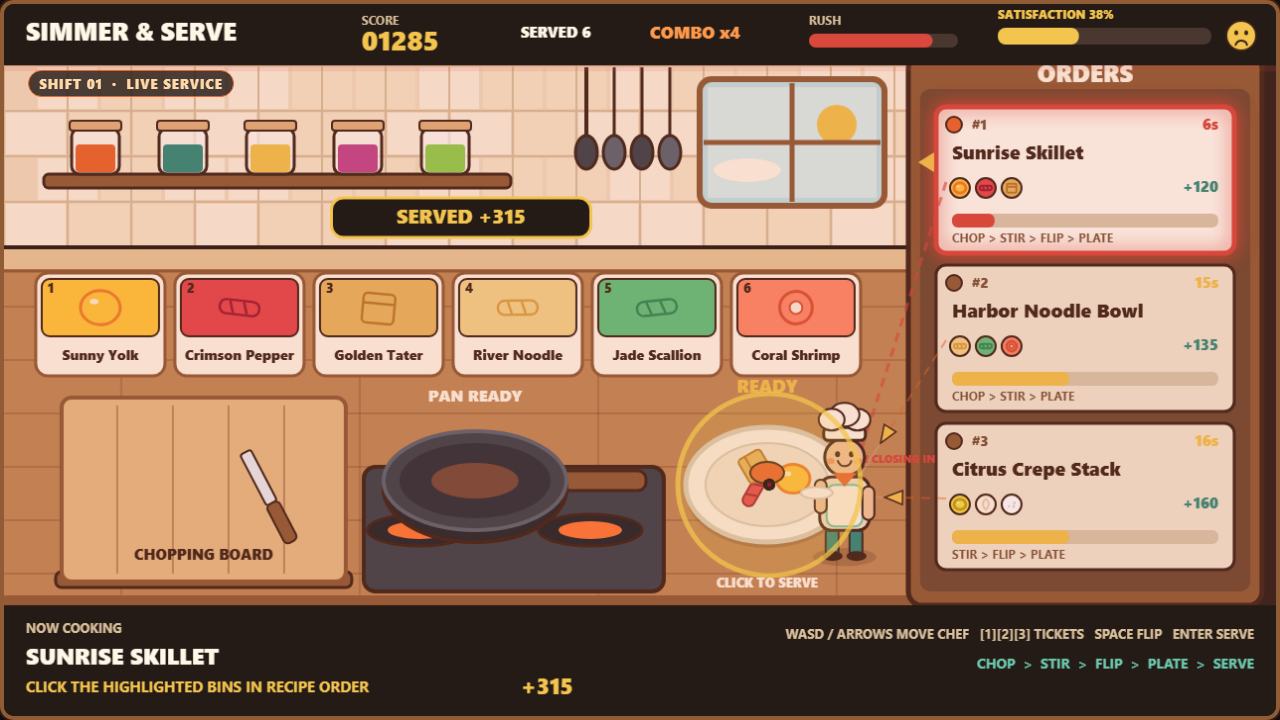
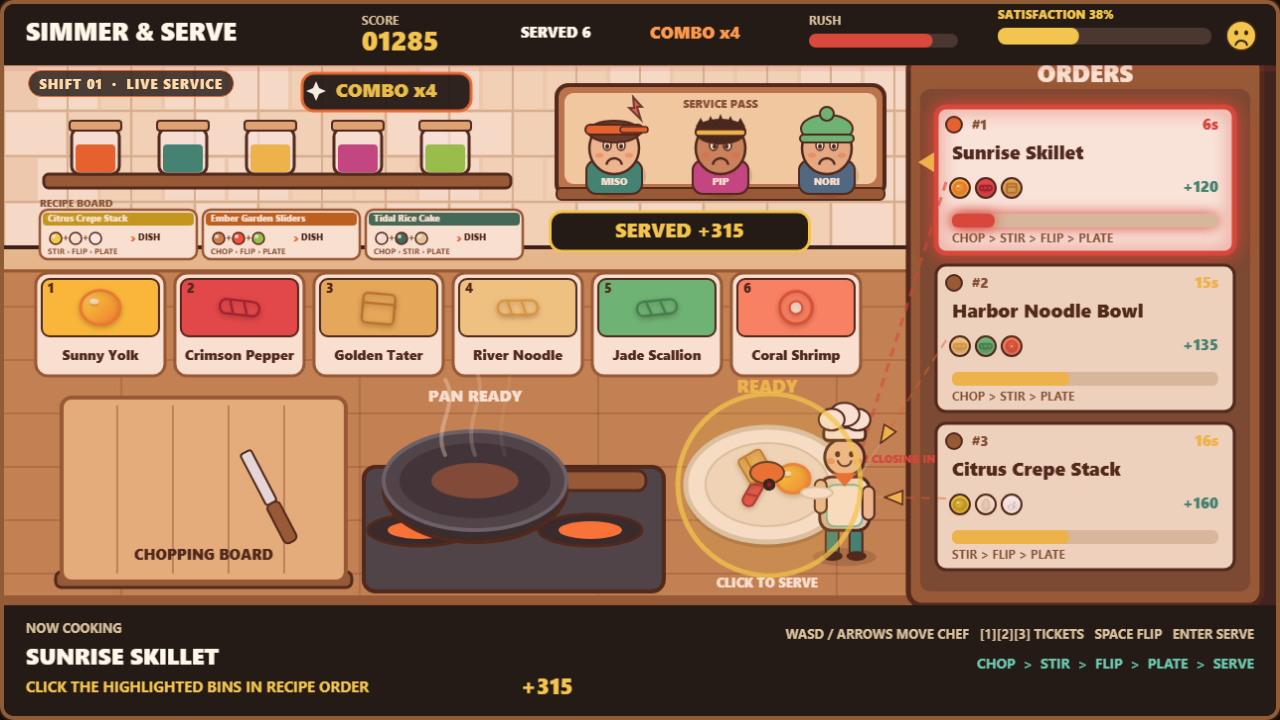
V4: customers, recipe board, combo and polish

diff --git a/game/src/render.js b/game/src/render.js
@@ -1,4 +1,5 @@
-// render.js — paints kitchen, the walking chef, chasing tickets and satisfaction from state only; motion is a function of now.
+// render.js — paints the kitchen, chef, chasing tickets and HUD from state only.
+// customers and recipe-board overlays are injected by main.js; motion is a function of state.now.
 
 import { PALETTE as P, LAYOUT as L, TIMER, ingredientById as ing } from './config.js';
 import { binIds } from './actions.js';
@@ -13,7 +14,9 @@ function ell(c,x,y,rx,ry,f,s,lw=3){c.beginPath();c.ellipse(x,y,rx,ry,0,0,Math.PI
 export function drawFood(c,g,x,y,s,spin=0){
   if(!g)return;const col=g.color,acc=g.accent;
   c.save();c.translate(x,y);c.rotate(spin);c.lineWidth=Math.max(2,s*.12);c.strokeStyle=acc;
-  if(g.shape==='round'){ell(c,0,0,s,s*.86,col,acc);ell(c,-s*.32,-s*.3,s*.22,s*.14,'rgba(255,255,255,.75)')}
+  c.shadowColor='rgba(60,37,25,0.25)';c.shadowBlur=5;c.shadowOffsetY=2;
+  const grad=c.createLinearGradient(-s,-s,s,s);grad.addColorStop(0,'#FFFFFF');grad.addColorStop(.3,col);grad.addColorStop(1,acc);
+  if(g.shape==='round'){ell(c,0,0,s,s*.86,grad,acc);c.shadowBlur=0;ell(c,-s*.32,-s*.3,s*.22,s*.14,'rgba(255,255,255,.75)')}
   else if(g.shape==='strip'){rr(c,-s,-s*.36,s*2,s*.72,s*.34);c.fillStyle=col;c.fill();c.stroke();c.beginPath();c.moveTo(-s*.5,-s*.3);c.lineTo(-s*.3,s*.3);c.moveTo(s*.2,-s*.3);c.lineTo(s*.4,s*.3);c.stroke()}
   else if(g.shape==='cube'){rr(c,-s*.8,-s*.7,s*1.6,s*1.5,s*.22);c.fillStyle=col;c.fill();c.stroke();c.beginPath();c.moveTo(-s*.8,-s*.2);c.lineTo(s*.8,-s*.2);c.stroke()}
   else if(g.shape==='grain'){for(let i=0;i<7;i++){const a=i*2.4;ell(c,Math.cos(a)*s*.55,Math.sin(a)*s*.45,s*.2,s*.27,i%2?acc:col,null)}}
@@ -29,14 +32,9 @@ function wall(c){
   c.strokeStyle=P.grout;c.lineWidth=2;
   for(let y=62;y<L.wallBottom;y+=46){c.beginPath();c.moveTo(0,y);c.lineTo(920,y);c.stroke()}
   for(let x=0;x<920;x+=64){c.beginPath();c.moveTo(x,62);c.lineTo(x,L.wallBottom);c.stroke()}
-  box(c,700,76,186,128,12,'#BFE3E7',P.woodDark,6);
-  c.fillStyle='#D9F0EE';c.fillRect(708,84,170,112);ell(c,838,122,20,20,P.gold,null);ell(c,748,168,34,12,P.cream,null);
-  c.strokeStyle=P.woodDark;c.lineWidth=5;c.beginPath();c.moveTo(793,80);c.lineTo(793,200);c.moveTo(704,140);c.lineTo(882,140);c.stroke();
   box(c,40,172,470,14,5,P.woodDark,P.ink,3);
   const jars=['#E8672E','#2E8C7B','#F3C44E','#C0468C','#8FD14F'];
   for(let i=0;i<jars.length;i++){const x=68+i*88;box(c,x,126,48,46,8,'rgba(255,255,255,.65)',P.ink,3);box(c,x+4,142,40,28,4,jars[i],null);box(c,x-2,118,52,10,3,P.woodLight,P.ink,2)}
-  c.strokeStyle=P.ink;c.lineWidth=4;
-  for(let i=0;i<4;i++){const x=586+i*28;c.beginPath();c.moveTo(x,64);c.lineTo(x,134);c.stroke();ell(c,x,150,11,17,i%2?P.panHi:P.pan,P.ink,3)}
 }
 
 function counter(c){
@@ -87,6 +85,11 @@ function stove(c,state){
   ell(c,cx,cy+8,92,54,'#22282D',P.ink,4);ell(c,cx,cy,92,50,P.pan,P.panHi,4);ell(c,cx,cy,76,38,'#2B3238',null);
   if(d&&d.picked.length){const sw=Math.sin(state.now/220)*12;d.picked.forEach((id,i)=>{const a=(i/d.picked.length)*Math.PI*2+state.now/1400;drawFood(c,ing(id),cx+Math.cos(a)*35,cy+Math.sin(a)*17+sw*.2,15,a)})}
   else ell(c,cx,cy,44,18,'rgba(255,122,56,.35)',null);
+  c.save();c.lineWidth=4;c.lineCap='round';
+  for(let i=0;i<3;i++){const sx=cx-30+i*30,phase=(state.now/700+i*.33)%1;
+    c.globalAlpha=.42*(1-phase);c.strokeStyle=i===1?'#FFF6E6':P.cream;
+    c.beginPath();c.moveTo(sx,cy-26);c.bezierCurveTo(sx-14,cy-50-phase*22,sx+16,cy-72-phase*30,sx,cy-96-phase*34);c.stroke()}
+  c.restore();
   if(d&&stepOf(d)==='stir'){c.strokeStyle=P.tealLight;c.lineWidth=4;c.beginPath();c.arc(cx,cy,58,state.now/260,state.now/260+1.6);c.stroke()}
   if(d&&stepOf(d)==='flip')for(let i=0;i<3;i++){const t=(state.now/300+i)%3;c.strokeStyle=P.gold;c.lineWidth=3;c.beginPath();c.arc(cx-40+t*40,cy-t*14,9,.2,2.6);c.stroke()}
   txt(c,d?stepOf(d).toUpperCase()+'  '+count(d):'PAN READY',cx,s.y+8,16,P.cream,800,'center');
@@ -114,7 +117,8 @@ function drawChef(c,state){
   const stride=p.moving?Math.sin(p.step)*7:0;
   box(c,-18,-26+stride,13,28,5,P.teal,P.ink,2);box(c,6,-26-stride,13,28,5,P.teal,P.ink,2);
   ell(c,-12,2,10,5,P.ink,null);ell(c,12,2,10,5,P.ink,null);
-  box(c,-25,-78,50,54,12,'#F3E4C9',P.ink,3);
+  const ag=c.createLinearGradient(-25,-78,25,-24);ag.addColorStop(0,'#FFF8E8');ag.addColorStop(1,'#D8B991');
+  box(c,-25,-78,50,54,12,ag,P.ink,3);
   box(c,-18,-70,36,42,8,P.cream,P.tealLight,2);
   box(c,-30,-72+swing,12,34,6,'#F2C79C',P.ink,2);box(c,18,-72-swing,12,34,6,'#F2C79C',P.ink,2);
   if(p.tool==='knife'){box(c,26,-92,7,34,2,'#E8EDF0',P.ink,2);box(c,23,-60,13,16,4,P.woodDark,P.ink,2)}
@@ -169,8 +173,10 @@ function orders(c,state){
     txt(c,order.name,t.x+16,t.y+48,19,P.ink,800);
     order.items.forEach((id,k)=>{const g=ing(id);ell(c,t.x+24+k*26,t.y+82,10,10,g.color,P.ink,2);drawFood(c,g,t.x+24+k*26,t.y+82,6)});
     txt(c,'+'+order.worth,t.x+t.w-16,t.y+82,15,P.teal,800,'right');
+    const pulse=r<.25?.72+.28*Math.sin(state.now/110):1;
+    if(r<.25){c.shadowColor=P.red;c.shadowBlur=14*pulse}
     box(c,t.x+16,t.y+108,t.w-32,14,6,'#D9C9AC',null);
-    box(c,t.x+16,t.y+108,Math.max(4,(t.w-32)*r),14,6,bar,null);
+    box(c,t.x+16,t.y+108,Math.max(4,(t.w-32)*r),14,6,bar,null);c.shadowBlur=0;
     txt(c,order.steps.join(' > ').toUpperCase(),t.x+16,t.y+134,12,P.inkSoft,700);
     if(chosen){c.fillStyle=P.gold;c.beginPath();c.moveTo(t.x-18,t.y+56);c.lineTo(t.x-2,t.y+46);c.lineTo(t.x-2,t.y+66);c.closePath();c.fill()}
   })
@@ -189,6 +195,13 @@ export function drawHUD(c,state){
   txt(c,'SIMMER & SERVE',22,30,25,P.cream,800);
   txt(c,'SCORE',360,18,12,P.grout,700);txt(c,String(state.score).padStart(5,'0'),360,40,27,P.gold,800);
   txt(c,'SERVED '+state.served,520,30,15,P.cream,800);txt(c,'COMBO x'+state.combo,650,30,17,state.combo>1?P.orangeLight:P.grout,800);
+  if(state.combo>1){const bx=300,by=70,bw=170,bh=38;
+    c.save();c.globalAlpha=.62+.38*(.5+.5*Math.sin(state.now/140));
+    box(c,bx,by,bw,bh,12,P.night,P.orange,3);
+    txt(c,'COMBO x'+state.combo,bx+bw/2,by+19,19,P.gold,800,'center');
+    c.fillStyle=P.cream;c.beginPath();c.moveTo(bx+14,by+8);c.lineTo(bx+17,by+15);
+    c.lineTo(bx+24,by+18);c.lineTo(bx+17,by+21);c.lineTo(bx+14,by+28);
+    c.lineTo(bx+11,by+21);c.lineTo(bx+4,by+18);c.lineTo(bx+11,by+15);c.closePath();c.fill();c.restore()}
   txt(c,'RUSH',810,18,12,P.grout,700);box(c,810,30,150,14,7,'#4A3830',null);
   box(c,810,30,Math.max(4,150*state.rush/100),14,7,state.rush>66?P.red:state.rush>33?P.gold:P.teal,null);
   const sat=Math.max(0,Math.min(100,state.satisfaction||0)),satCol=sat>60?P.teal:sat>30?P.gold:P.red;
@@ -209,7 +222,7 @@ export function drawHUD(c,state){
   txt(c,hint,22,y+84,15,P.gold,700);
   txt(c,'WASD / ARROWS MOVE CHEF   [1][2][3] TICKETS   SPACE FLIP   ENTER SERVE',L.width-22,y+30,13,P.grout,700,'right');
   txt(c,'CHOP  >  STIR  >  FLIP  >  PLATE  >  SERVE',L.width-22,y+60,14,P.tealLight,700,'right');
-  if(state.toast&&state.toast.until>state.now){const t=state.toast,w=250+t.text.length,tx=t.x??460,ty=t.y??216;
+  if(state.toast&&state.toast.until>state.now){const t=state.toast,w=250+t.text.length,tx=t.x??680,ty=t.y??230;
     box(c,tx-w/2,ty-20,w,40,12,P.night,t.color,3);txt(c,t.text,tx,ty,20,t.color,800,'center')}
   if(state.lastServe&&state.lastServe.until>state.now)txt(c,'+'+state.lastServe.points,520,y+84,22,P.gold,800)
 }
@@ -225,4 +238,10 @@ export function drawParticles(c,state){
   c.globalAlpha=1
 }
 
-export function render(c,state){drawKitchen(c,state);drawParticles(c,state);drawHUD(c,state)}
+export function render(c,state,overlays={}){
+  drawKitchen(c,state);
+  // Drop the recipe strip below the jar shelf without covering bins or the board.
+  if(overlays.recipeBoard){c.save();c.translate(0,12);overlays.recipeBoard(c,state);c.restore()}
+  if(overlays.customers)overlays.customers(c,state);
+  drawParticles(c,state);drawHUD(c,state)
+}

diff --git a/game/src/customers.js b/game/src/customers.js
@@ -1,0 +1,84 @@
+// customers.js — the service pass: three original regulars whose faces turn from
+// delighted to sour as satisfaction drops. Reactions are staged from state only.
+
+import { PALETTE as P } from './config.js';
+
+export const CUSTOMER_LOOKS = [
+  { name: 'MISO', skin: '#F2C79C', hair: '#5B3A2A', hat: '#E8672E', trim: '#2E8C7B', style: 'cap' },
+  { name: 'PIP', skin: '#C98B63', hair: '#33231C', hat: '#F3C44E', trim: '#C0468C', style: 'spikes' },
+  { name: 'NORI', skin: '#E9B98F', hair: '#7A3B2E', hat: '#5EC57E', trim: '#3C6E8C', style: 'beanie' },
+];
+
+function rr(c,x,y,w,h,r){c.beginPath();c.moveTo(x+r,y);c.arcTo(x+w,y,x+w,y+h,r);c.arcTo(x+w,y+h,x,y+h,r);c.arcTo(x,y+h,x,y,r);c.arcTo(x,y,x+w,y,r);c.closePath()}
+function box(c,x,y,w,h,r,f,s=P.ink,lw=2){rr(c,x,y,w,h,r);c.fillStyle=f;c.fill();if(s){c.lineWidth=lw;c.strokeStyle=s;c.stroke()}}
+function ell(c,x,y,rx,ry,f,s,lw=2){c.beginPath();c.ellipse(x,y,rx,ry,0,0,Math.PI*2);c.fillStyle=f;c.fill();if(s){c.lineWidth=lw;c.strokeStyle=s;c.stroke()}}
+function txt(c,t,x,y,z,col,w=700,a='center'){c.font=w+' '+z+'px system-ui,"Segoe UI",sans-serif';c.textAlign=a;c.textBaseline='middle';c.fillStyle=col;c.fillText(t,x,y)}
+
+// A floating heart for a good serve or a jagged anger bolt for a lost order.
+export function drawCustomerReaction(c, state, x, y, kind) {
+  const react = state.customerReaction;
+  if (!react || react.kind !== kind) return;
+  const age = state.now - react.at;
+  if (age < 0 || age > 1000) return;
+  const rise = age / 1000 * 30;
+  c.save(); c.globalAlpha = Math.max(0, 1 - age / 1000); c.translate(x, y - rise);
+  if (kind === 'heart') {
+    c.fillStyle = '#E5484D'; c.strokeStyle = P.ink; c.lineWidth = 2;
+    c.beginPath(); c.moveTo(0, 9); c.bezierCurveTo(-18, -3, -10, -16, 0, -7);
+    c.bezierCurveTo(10, -16, 18, -3, 0, 9); c.fill(); c.stroke();
+  } else {
+    c.fillStyle = P.red; c.strokeStyle = P.ink; c.lineWidth = 2;
+    c.beginPath(); c.moveTo(-3, -12); c.lineTo(6, -2); c.lineTo(1, -2);
+    c.lineTo(5, 11); c.lineTo(-7, -1); c.lineTo(-2, -1); c.closePath(); c.fill(); c.stroke();
+  }
+  c.restore();
+}
+
+export function drawCustomers(c, state) {
+  const sat = Math.max(0, Math.min(100, state.satisfaction || 0));
+  box(c, 556, 82, 330, 112, 12, '#B97B4F', P.ink, 4);
+  box(c, 564, 90, 314, 92, 9, '#F6DCB2', null);
+  txt(c, 'SERVICE PASS', 721, 102, 11, P.inkSoft, 800);
+  box(c, 556, 186, 330, 12, 5, P.woodDark, P.ink, 2);
+
+  CUSTOMER_LOOKS.forEach((look, i) => {
+    const x = 614 + i * 107, y = 146;
+    const moodScore = sat - i * 14;
+    const mood = moodScore >= 70 ? 2 : moodScore >= 40 ? 1 : 0;
+    // soft drop shadow behind each head gives the row depth
+    ell(c, x + 2, y + 28, 30, 22, 'rgba(60,37,25,0.16)', null);
+    box(c, x - 28, y + 12, 56, 34, 10, look.trim, P.ink, 2);
+    ell(c, x, y, 25, 26, look.skin, P.ink, 2.5);
+    ell(c, x - 7, y - 3, 4, 5, P.cream, P.ink, 1.5);
+    ell(c, x + 7, y - 3, 4, 5, P.cream, P.ink, 1.5);
+    ell(c, x - 7 + (i === 1 ? 1 : 0), y - 2, 2, 2.5, P.ink, null);
+    ell(c, x + 7 + (i === 1 ? -1 : 0), y - 2, 2, 2.5, P.ink, null);
+    ell(c, x - 15, y + 7, 4, 2.5, 'rgba(232,103,46,0.35)', null);
+    ell(c, x + 15, y + 7, 4, 2.5, 'rgba(232,103,46,0.35)', null);
+    c.strokeStyle = P.ink; c.lineWidth = 2.4; c.beginPath();
+    if (mood === 2) c.arc(x, y + 7, 8, 0.2, Math.PI - 0.2);
+    else if (mood === 1) { c.moveTo(x - 7, y + 11); c.lineTo(x + 7, y + 11); }
+    else c.arc(x, y + 18, 8, Math.PI + 0.2, Math.PI * 2 - 0.2);
+    c.stroke();
+    if (look.style === 'cap') {
+      ell(c, x, y - 17, 26, 11, look.hair, P.ink, 2);
+      box(c, x - 29, y - 24, 58, 10, 5, look.hat, P.ink, 2);
+      box(c, x + 6, y - 22, 28, 6, 3, look.hat, P.ink, 1.5);
+    } else if (look.style === 'spikes') {
+      ell(c, x, y - 17, 25, 12, look.hair, P.ink, 2);
+      for (let k = -2; k <= 2; k++) {
+        c.fillStyle = look.hair; c.beginPath();
+        c.moveTo(x + k * 10 - 5, y - 22); c.lineTo(x + k * 10, y - 35 - Math.abs(k) * -2);
+        c.lineTo(x + k * 10 + 5, y - 22); c.closePath(); c.fill();
+      }
+      box(c, x - 25, y - 19, 50, 6, 3, look.hat, P.ink, 1.5);
+    } else {
+      ell(c, x, y - 20, 26, 14, look.hat, P.ink, 2);
+      box(c, x - 27, y - 14, 54, 8, 4, look.hat, P.ink, 2);
+      ell(c, x, y - 35, 7, 7, look.hat, P.ink, 2);
+    }
+    txt(c, look.name, x, y + 34, 10, P.cream, 800);
+    drawCustomerReaction(c, state, x + 22, y - 34,
+      (state.customerReaction && state.customerReaction.index === i) ? state.customerReaction.kind : 'none');
+  });
+}

diff --git a/game/src/shots.js b/game/src/shots.js
@@ -54,12 +54,15 @@ export function applyShot(state, query) {
     flavor(state, 476, 482, panOrder.items, 12, 120);
     flavor(state, 770, 486, serveOrder.items, 14, 150);
     emitFlash(state, 770, 486, PALETTE.gold, 72);
-    state.toast = { text: 'PLATED — CLICK TO SERVE', color: PALETTE.gold,
-      until: state.now + 4000, x: 460, y: 216 };
+    // Plate already prints CLICK TO SERVE; a toast here would cover the recipe board.
+    state.toast = null;
     state.player = { x: 850, y: 556, facing: -1, step: 1.2, moving: false, station: 'plate', tool: 'plate' };
     state.satisfaction = 92;
     state.orders.forEach((o, i) => { o.pursuitFloor = [0.18, 0.44, 0.3][i] || 0.2 });
     updatePursuit(state);
+    state.recipeBoard = ['sunrise', 'harbor', 'cloud'];
+    state.combo = 2;
+    state.customerReaction = { kind: 'heart', index: 1, at: state.now - 300 };
     state.rush = 46;
   } else if (shot === 'prep') {
     advanceTimers(state, 700);
@@ -71,27 +74,32 @@ export function applyShot(state, query) {
     flavor(state, 196, 470, order.items, 22, 240);
     emitFlash(state, 196, 470, PALETTE.orangeLight, 60);
     state.toast = { text: 'CHOP 3/' + TIMER.chopGoal, color: PALETTE.gold,
-      until: state.now + 4000, x: 460, y: 216 };
+      until: state.now + 4000, x: 680, y: 230 };
     if (state.orders[1]) state.orders[1].remaining = Math.round(state.orders[1].total * 0.72);
     state.player = { x: 300, y: 556, facing: 1, step: 2.4, moving: true, station: 'board', tool: 'knife' };
     state.satisfaction = 74;
     state.orders.forEach((o, i) => { o.pursuitFloor = [0.62, 0.36, 0.24][i] || 0.2 });
     updatePursuit(state);
+    state.recipeBoard = ['sunrise', 'tidal', 'lantern'];
+    state.customerReaction = { kind: 'heart', index: 0, at: state.now - 220 };
   } else if (shot === 'assembly') {
     advanceTimers(state, 600);
     const order = orderById(state, 2);
     stageActive(state, order, 1, { stir: 4, flip: 0 });
-    state.orders.forEach((o, i) => { o.remaining = Math.round(o.total * (i === 1 ? 0.58 : 0.8)); });
+    state.orders.forEach((o, i) => { o.remaining = Math.round(o.total * (i === 1 ? 0.18 : [0.58, 0.18, 0.8][i])); });
     state.selected = 1;
     state.stirArc = 0.4;
     flavor(state, 476, 482, order.items, 16, 110);
     emitFlash(state, 476, 482, PALETTE.tealLight, 64);
     state.toast = { text: 'STIR 4/' + TIMER.stirGoal, color: PALETTE.tealLight,
-      until: state.now + 4000, x: 460, y: 216 };
+      until: state.now + 4000, x: 680, y: 230 };
     state.player = { x: 566, y: 556, facing: -1, step: 1.8, moving: true, station: 'pan', tool: 'spatula' };
     state.satisfaction = 66;
     state.orders.forEach((o, i) => { o.pursuitFloor = [0.3, 0.72, 0.4][i] || 0.2 });
     updatePursuit(state);
+    state.recipeBoard = ['harbor', 'meteor', 'citrus'];
+    state.combo = 3;
+    state.customerReaction = { kind: 'anger', index: 2, at: state.now - 260 };
     state.rush = 54;
   } else if (shot === 'service') {
     advanceTimers(state, 1200);
@@ -107,11 +115,13 @@ export function applyShot(state, query) {
     flavor(state, 770, 486, order.items, 26, 200);
     emitFlash(state, 770, 486, PALETTE.gold, 92);
     state.lastServe = { points: 315, name: order.name, until: state.now + 4000 };
-    state.toast = { text: 'SERVED +315', color: PALETTE.gold, until: state.now + 4000, x: 460, y: 216 };
+    state.toast = { text: 'SERVED +315', color: PALETTE.gold, until: state.now + 4000, x: 680, y: 230 };
     state.player = { x: 850, y: 556, facing: -1, step: 0.8, moving: false, station: 'plate', tool: 'plate' };
     state.satisfaction = 38;
     state.orders.forEach((o, i) => { o.pursuitFloor = [0.92, 0.6, 0.45][i] || 0.2 });
     updatePursuit(state);
+    state.recipeBoard = ['citrus', 'slider', 'tidal'];
+    state.customerReaction = { kind: 'anger', index: 0, at: state.now - 200 };
     state.shake = 180;
     state.expiryFlash = 260;
   }

diff --git a/game/src/recipebook.js b/game/src/recipebook.js
@@ -1,0 +1,31 @@
+// recipebook.js — a small reference strip on the wall: ingredient dots point to a
+// dish name and its prep order, proving that recipes combine in different ways.
+
+import { PALETTE as P, RECIPES, ingredientById } from './config.js';
+
+function rr(c,x,y,w,h,r){c.beginPath();c.moveTo(x+r,y);c.arcTo(x+w,y,x+w,y+h,r);c.arcTo(x+w,y+h,x,y+h,r);c.arcTo(x,y+h,x,y,r);c.arcTo(x,y,x+w,y,r);c.closePath()}
+function box(c,x,y,w,h,r,f,s=P.ink,lw=2){rr(c,x,y,w,h,r);c.fillStyle=f;c.fill();if(s){c.lineWidth=lw;c.strokeStyle=s;c.stroke()}}
+function ell(c,x,y,rx,ry,f,s,lw=1.5){c.beginPath();c.ellipse(x,y,rx,ry,0,0,Math.PI*2);c.fillStyle=f;c.fill();if(s){c.lineWidth=lw;c.strokeStyle=s;c.stroke()}}
+function txt(c,t,x,y,z,col,w=700,a='left'){c.font=w+' '+z+'px system-ui,"Segoe UI",sans-serif';c.textAlign=a;c.textBaseline='middle';c.fillStyle=col;c.fillText(t,x,y)}
+
+export function drawRecipeBoard(c, state) {
+  const ids = state.recipeBoard || ['sunrise', 'harbor', 'cloud'];
+  txt(c, 'RECIPE BOARD', 36, 190, 10, P.inkSoft, 800);
+  ids.slice(0, 3).forEach((id, i) => {
+    const recipe = RECIPES.find((r) => r.id === id) || RECIPES[i];
+    if (!recipe) return;
+    const x = 36 + i * 164, y = 196, w = 158, h = 50;
+    box(c, x, y, w, h, 8, '#FFF8E8', P.woodDark, 2.5);
+    box(c, x + 3, y + 3, w - 6, 13, 4, recipe.color, null);
+    txt(c, recipe.name, x + 8, y + 10, 9, P.cream, 800);
+    recipe.items.forEach((item, k) => {
+      const g = ingredientById(item);
+      ell(c, x + 16 + k * 20, y + 29, 6, 6, g.color, P.ink, 1.5);
+      ell(c, x + 14 + k * 20, y + 27, 2, 2, 'rgba(255,255,255,0.8)', null);
+      if (k < recipe.items.length - 1) txt(c, '+', x + 26 + k * 20, y + 29, 9, P.inkSoft, 800, 'center');
+    });
+    txt(c, '›', x + 94, y + 29, 13, P.orange, 800, 'center');
+    txt(c, 'DISH', x + 110, y + 29, 9, P.ink, 800, 'center');
+    txt(c, recipe.steps.map((s) => s.toUpperCase()).join(' › '), x + 8, y + 43, 8, P.inkSoft, 700);
+  });
+}

diff --git a/game/src/main.js b/game/src/main.js
@@ -6,6 +6,10 @@ import { applyShot } from './shots.js';
 import { attachInput } from './input.js';
 import * as actions from './actions.js';
 import { render } from './render.js';
+import { drawCustomers } from './customers.js';
+import { drawRecipeBoard } from './recipebook.js';
+
+const overlays = { customers: drawCustomers, recipeBoard: drawRecipeBoard };
 
 const params = new URLSearchParams(window.location.search);
 const seed = Number.parseInt(params.get('seed') || '7', 10) || 7;
@@ -32,7 +36,7 @@ function frame(now) {
   const dt = frozen ? 0 : Math.min(120, now - lastFrame);
   lastFrame = now;
   advanceTimers(state, dt);
-  render(ctx, state);
+  render(ctx, state, overlays);
   window.requestAnimationFrame(frame);
 }
 
